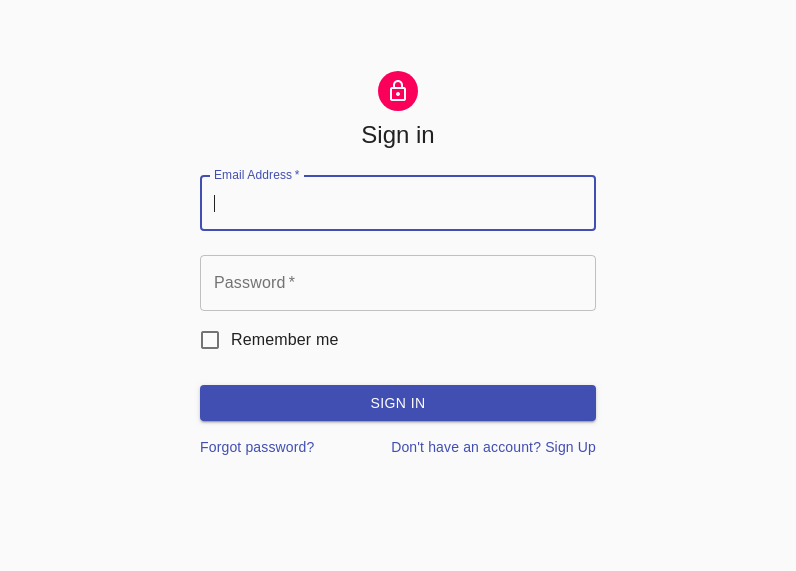
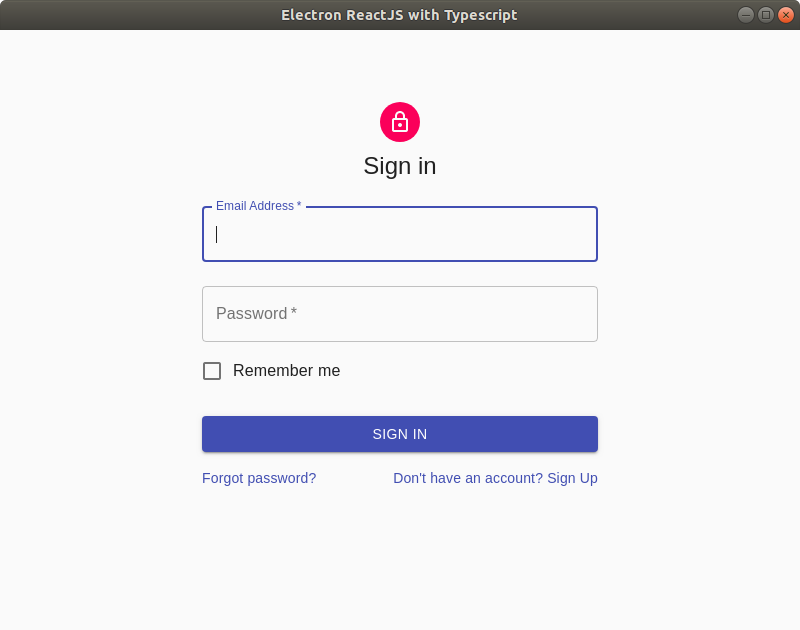
remove menu and replace login iamge

diff --git a/src/electron.ts b/src/electron.ts
@@ -9,6 +9,8 @@ function createWindow() {
     }
   });
 
+  win.removeMenu();
+
   win.loadFile("index.html");
 }
 
